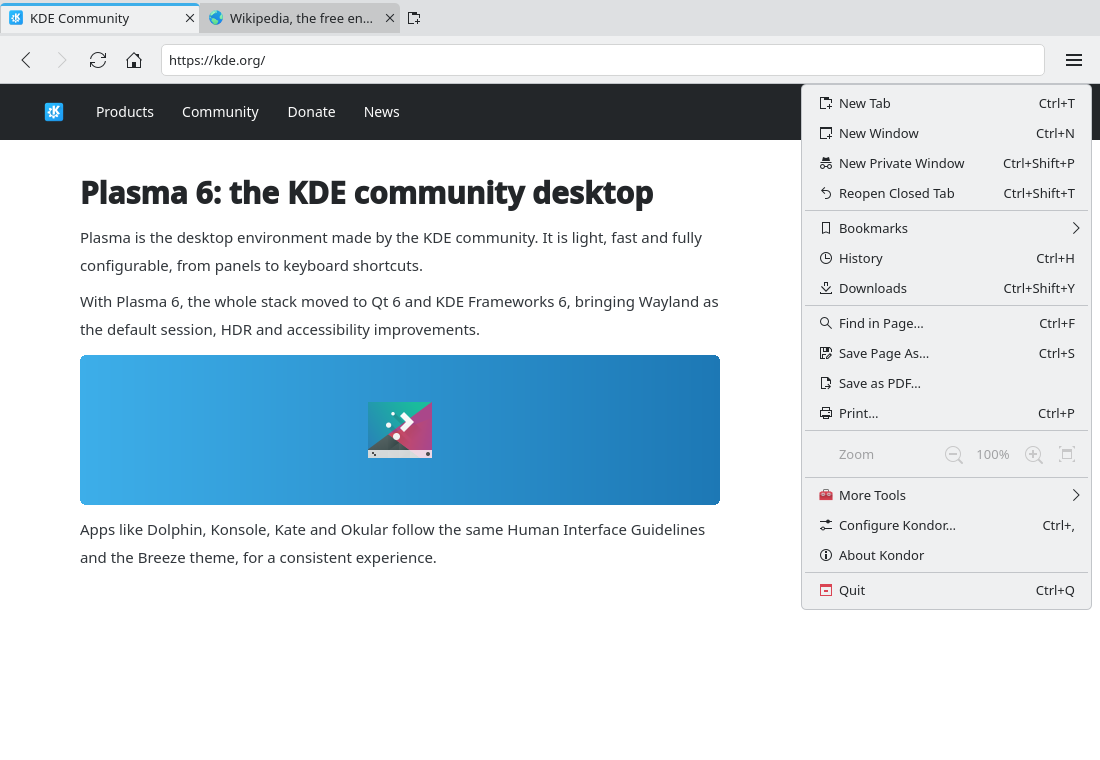
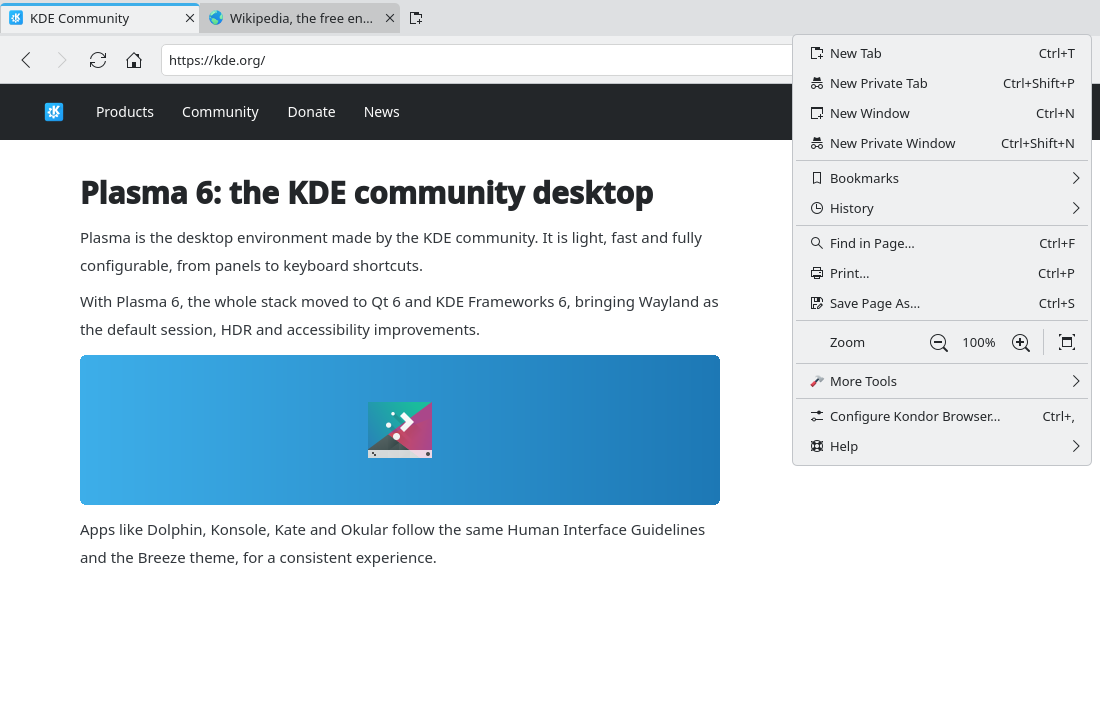
docs: add the reorganized main menu prototypes for #93

diff --git a/prototypes/common/MainMenuMock.qml b/prototypes/common/MainMenuMock.qml
@@ -1,0 +1,126 @@
+// Main (hamburger) menu reorganized in #93: 13 rows grouped by intent.
+// `openSubmenu`: "" (none), "history", "tools" or "help" shows that submenu next to it.
+import QtQuick
+import QtQuick.Controls
+import QtQuick.Layouts
+import org.kde.kirigami as Kirigami
+
+Item {
+    id: root
+    anchors.fill: parent
+    property string openSubmenu: ""
+
+    // Submenus open to the left of the main menu, level with their row.
+    function placeSubmenu(submenu, title) {
+        let row = null
+        for (let i = 0; i < mainMenu.count; ++i) {
+            const it = mainMenu.itemAt(i)
+            if (it && it.text === title)
+                row = it
+        }
+        const p = row ? row.mapToItem(root, 0, 0) : Qt.point(0, 0)
+        submenu.x = mainMenu.x - submenu.menuWidth + 2
+        submenu.y = p.y - submenu.topPadding
+        if (row)
+            row.highlighted = true
+        submenu.open()
+    }
+
+    Menu {
+        id: mainMenu
+        popupType: Popup.Item
+        closePolicy: Popup.NoAutoClose
+        x: root.width - width - 8
+        y: -50
+        width: 300
+
+        MenuItem { text: "New Tab"; icon.name: "tab-new"; action: Action { shortcut: "Ctrl+T" } }
+        MenuItem { text: "New Private Tab"; icon.name: "view-private"; action: Action { shortcut: "Ctrl+Shift+P" } }
+        MenuItem { text: "New Window"; icon.name: "window-new"; action: Action { shortcut: "Ctrl+N" } }
+        MenuItem { text: "New Private Window"; icon.name: "view-private"; action: Action { shortcut: "Ctrl+Shift+N" } }
+        MenuSeparator {}
+        Menu { title: "Bookmarks"; icon.name: "bookmarks"; popupType: Popup.Item }
+        Menu { id: historyRow; title: "History"; icon.name: "view-history"; popupType: Popup.Item }
+        MenuSeparator {}
+        MenuItem { text: "Find in Page…"; icon.name: "edit-find"; action: Action { shortcut: "Ctrl+F" } }
+        MenuItem { text: "Print…"; icon.name: "document-print"; action: Action { shortcut: "Ctrl+P" } }
+        MenuItem { text: "Save Page As…"; icon.name: "document-save-as"; action: Action { shortcut: "Ctrl+S" } }
+        MenuSeparator {}
+        // Zoom and full screen on one row, like Firefox and Chrome.
+        Item {
+            implicitWidth: mainMenu.width
+            implicitHeight: zoomLayout.implicitHeight + 4
+            RowLayout {
+                id: zoomLayout
+                anchors.fill: parent
+                anchors.leftMargin: Kirigami.Units.largeSpacing + 16 + Kirigami.Units.smallSpacing * 2 + 2
+                anchors.rightMargin: Kirigami.Units.smallSpacing
+                spacing: 0
+                Label { text: "Zoom"; Layout.fillWidth: true }
+                ToolButton { icon.name: "zoom-out"; display: AbstractButton.IconOnly; flat: true }
+                Label {
+                    text: "100%"
+                    horizontalAlignment: Text.AlignHCenter
+                    Layout.preferredWidth: 48
+                }
+                ToolButton { icon.name: "zoom-in"; display: AbstractButton.IconOnly; flat: true }
+                Kirigami.Separator { Layout.fillHeight: true; Layout.margins: 6 }
+                ToolButton { icon.name: "view-fullscreen"; display: AbstractButton.IconOnly; flat: true }
+            }
+        }
+        MenuSeparator {}
+        Menu { id: toolsRow; title: "More Tools"; icon.name: "applications-development"; popupType: Popup.Item }
+        MenuSeparator {}
+        MenuItem { text: "Configure Kondor Browser…"; icon.name: "configure"; action: Action { shortcut: "Ctrl+," } }
+        Menu { id: helpRow; title: "Help"; icon.name: "help-contents"; popupType: Popup.Item }
+    }
+
+    SubmenuMock {
+        id: historyMenu
+        menuWidth: 330
+        MenuItem { text: "Show All History"; icon.name: "view-history"; action: Action { shortcut: "Ctrl+H" } }
+        MenuItem { text: "Reopen Closed Tab"; icon.name: "edit-undo"; action: Action { shortcut: "Ctrl+Shift+T" } }
+        MenuSeparator {}
+        MenuItem { enabled: false; text: "Recently Closed Tabs" }
+        MenuItem { text: "KDE Community"; icon.name: "kde" }
+        MenuItem { text: "Qt Documentation"; icon.name: "qtcreator" }
+        MenuItem { text: "LWN.net"; icon.name: "text-html" }
+        MenuSeparator {}
+        MenuItem { enabled: false; text: "Today" }
+        MenuItem { text: "Planet KDE"; icon.name: "kde" }
+        MenuItem { text: "Fedora Project"; icon.name: "fedora-logo-icon" }
+        MenuItem { text: "ArchWiki"; icon.name: "text-html" }
+        MenuItem { text: "Wikipedia, the free encyclopedia"; icon.name: "internet-web-browser" }
+    }
+
+    SubmenuMock {
+        id: toolsMenu
+        menuWidth: 280
+        MenuItem { text: "Developer Tools"; icon.name: "code-context"; action: Action { shortcut: "F12" } }
+        MenuItem { text: "Save as PDF…"; icon.name: "document-export" }
+        MenuItem { text: "Site Permissions…"; icon.name: "security-high" }
+    }
+
+    SubmenuMock {
+        id: helpMenu
+        menuWidth: 250
+        MenuItem { text: "Report a Bug…"; icon.name: "tools-report-bug" }
+        MenuSeparator {}
+        MenuItem { text: "About Kondor Browser"; icon.name: "help-about" }
+    }
+
+    // Open the submenu once the main menu has been laid out.
+    Timer {
+        interval: 300
+        running: true
+        onTriggered: {
+            if (root.openSubmenu === "history") root.placeSubmenu(historyMenu, "History")
+            else if (root.openSubmenu === "tools") root.placeSubmenu(toolsMenu, "More Tools")
+            else if (root.openSubmenu === "help") root.placeSubmenu(helpMenu, "Help")
+        }
+    }
+
+    Component.onCompleted: {
+        mainMenu.open()
+    }
+}

diff --git a/prototypes/00-main-menu.qml b/prototypes/00-main-menu.qml
@@ -1,64 +1,9 @@
-// Target main menu with the entries added by all issues (#1 #2 #3 #4 #5 #6 #14 #16 #17).
-// Order and grouping follow KDE apps (File / Edit / View / Tools).
+// Target main menu (#93): grouped by intent, shortcuts shown, zoom on one row.
 import QtQuick
-import QtQuick.Controls
-import QtQuick.Layouts
-import org.kde.kirigami as Kirigami
 import "common"
 
 BrowserFrame {
-    id: frame
-    height: 760
+    height: 720
     FakePage {}
-
-    Menu {
-        id: mainMenu
-        popupType: Popup.Item
-        x: frame.width - width - 8
-        y: 0
-        MenuItem { text: "New Tab"; icon.name: "tab-new"; action: Action { shortcut: "Ctrl+T" } }
-        MenuItem { text: "New Window"; icon.name: "window-new"; action: Action { shortcut: "Ctrl+N" } }
-        MenuItem { text: "New Private Window"; icon.name: "view-private"; action: Action { shortcut: "Ctrl+Shift+P" } }
-        MenuItem { text: "Reopen Closed Tab"; icon.name: "edit-undo"; action: Action { shortcut: "Ctrl+Shift+T" } }
-        MenuSeparator {}
-        Menu {
-            title: "Bookmarks"
-            icon.name: "bookmarks"
-            popupType: Popup.Item
-            MenuItem { text: "Bookmark This Page"; icon.name: "bookmark-new" }
-        }
-        MenuItem { text: "History"; icon.name: "view-history"; action: Action { shortcut: "Ctrl+H" } }
-        MenuItem { text: "Downloads"; icon.name: "download"; action: Action { shortcut: "Ctrl+Shift+Y" } }
-        MenuSeparator {}
-        MenuItem { text: "Find in Page…"; icon.name: "edit-find"; action: Action { shortcut: "Ctrl+F" } }
-        MenuItem { text: "Save Page As…"; icon.name: "document-save-as"; action: Action { shortcut: "Ctrl+S" } }
-        MenuItem { text: "Save as PDF…"; icon.name: "document-export" }
-        MenuItem { text: "Print…"; icon.name: "document-print"; action: Action { shortcut: "Ctrl+P" } }
-        MenuSeparator {}
-        // Zoom controls on a single row, like Firefox/Falkon.
-        MenuItem {
-            id: zoomRow
-            enabled: false
-            contentItem: RowLayout {
-                spacing: 0
-                Label { text: "Zoom"; Layout.fillWidth: true; leftPadding: 30 }
-                ToolButton { icon.name: "zoom-out"; display: AbstractButton.IconOnly }
-                Label { text: "100%"; horizontalAlignment: Text.AlignHCenter; Layout.preferredWidth: 46 }
-                ToolButton { icon.name: "zoom-in"; display: AbstractButton.IconOnly }
-                ToolButton { icon.name: "view-fullscreen"; display: AbstractButton.IconOnly }
-            }
-        }
-        MenuSeparator {}
-        Menu {
-            title: "More Tools"
-            icon.name: "applications-utilities"
-            popupType: Popup.Item
-            MenuItem { text: "Developer Tools"; icon.name: "code-context" }
-        }
-        MenuItem { text: "Configure Kondor…"; icon.name: "configure"; action: Action { shortcut: "Ctrl+," } }
-        MenuItem { text: "About Kondor"; icon.name: "help-about" }
-        MenuSeparator {}
-        MenuItem { text: "Quit"; icon.name: "application-exit"; action: Action { shortcut: "Ctrl+Q" } }
-        Component.onCompleted: open()
-    }
+    MainMenuMock {}
 }

diff --git a/prototypes/common/SubmenuMock.qml b/prototypes/common/SubmenuMock.qml
@@ -1,0 +1,38 @@
+// A static submenu drawn like a Breeze Menu. Prototypes use it next to an open
+// Menu: opening a second Menu would close the first one.
+import QtQuick
+import QtQuick.Controls
+import org.kde.kirigami as Kirigami
+
+Popup {
+    id: control
+    default property alias items: column.data
+    property real menuWidth: 280
+
+    popupType: Popup.Item
+    closePolicy: Popup.NoAutoClose
+    padding: 4
+    width: menuWidth
+    height: column.implicitHeight + topPadding + bottomPadding
+    Kirigami.Theme.colorSet: Kirigami.Theme.View
+    Kirigami.Theme.inherit: false
+
+    contentItem: Column {
+        id: column
+        onChildrenChanged: {
+            for (let i = 0; i < children.length; ++i)
+                children[i].width = Qt.binding(function() { return column.width })
+        }
+    }
+
+    background: Kirigami.ShadowedRectangle {
+        radius: Kirigami.Units.cornerRadius
+        color: Kirigami.Theme.backgroundColor
+        border.color: Kirigami.ColorUtils.linearInterpolation(Kirigami.Theme.backgroundColor, Kirigami.Theme.textColor, Kirigami.Theme.frameContrast)
+        border.width: 1
+        shadow.xOffset: 0
+        shadow.yOffset: 2
+        shadow.color: Qt.rgba(0, 0, 0, 0.3)
+        shadow.size: 8
+    }
+}

diff --git a/prototypes/93b-main-menu-history.qml b/prototypes/93b-main-menu-history.qml
@@ -1,0 +1,9 @@
+// #93 Main menu — History submenu (recently closed tabs, today's history).
+import QtQuick
+import "common"
+
+BrowserFrame {
+    height: 720
+    FakePage {}
+    MainMenuMock { openSubmenu: "history" }
+}

diff --git a/prototypes/93c-main-menu-tools.qml b/prototypes/93c-main-menu-tools.qml
@@ -1,0 +1,9 @@
+// #93 Main menu — More Tools submenu.
+import QtQuick
+import "common"
+
+BrowserFrame {
+    height: 720
+    FakePage {}
+    MainMenuMock { openSubmenu: "tools" }
+}

diff --git a/prototypes/93d-main-menu-help.qml b/prototypes/93d-main-menu-help.qml
@@ -1,0 +1,9 @@
+// #93 Main menu — Help submenu.
+import QtQuick
+import "common"
+
+BrowserFrame {
+    height: 720
+    FakePage {}
+    MainMenuMock { openSubmenu: "help" }
+}

diff --git a/prototypes/README.md b/prototypes/README.md
@@ -58,7 +58,7 @@ Tips when editing:
 | #23 Spell checking | `23-spellcheck.qml` |
 | #24 Per-site zoom | `24-site-zoom.qml` |
 | #43 New Tab page | `43-new-tab-page.qml`, `43b-new-private-tab-page.qml`, `03-settings.qml` ("Home Page", "New Tabs") |
-| — Target main menu | `00-main-menu.qml` (all menu entries added by the roadmap) |
+| #93 Main menu (target layout) | `00-main-menu.qml`, `93b-main-menu-history.qml`, `93c-main-menu-tools.qml`, `93d-main-menu-help.qml` (shared mock in `common/MainMenuMock.qml`; `common/SubmenuMock.qml` draws an open submenu) |
 
 Issues without UI (#10 default browser, #15 single instance, #19 translations, #25 Flatpak,
 #26 tests) have no prototype.
